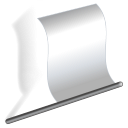
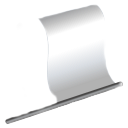
Fixed flags and river flow

diff --git a/riverrush-screen/src/main/nl/tudelft/ti2806/riverrush/screen/PlayingGameScreen.java b/riverrush-screen/src/main/nl/tudelft/ti2806/riverrush/screen/PlayingGameScreen.java
@@ -98,12 +98,12 @@ public class PlayingGameScreen implements Screen {
     /**
      * Draws a stage on the screen. Each stage occupies the entire height of the screen.
      *
-     * @param toDraw             The stage to draw.
+     * @param toDraw The stage to draw.
      * @param positionPercentage The position of the stage from the left. Between 0 and 1.
-     * @param heigthPercentage   The width of the stage between 0 and 1. (1 = 100%).
+     * @param heigthPercentage The width of the stage between 0 and 1. (1 = 100%).
      */
     private void drawStage(final Stage toDraw, final double positionPercentage,
-                           final double heigthPercentage) {
+            final double heigthPercentage) {
 
         int yPos = (int) (Gdx.graphics.getHeight() * positionPercentage);
         int height = (int) (Gdx.graphics.getHeight() * heigthPercentage);
@@ -141,7 +141,7 @@ public class PlayingGameScreen implements Screen {
     /**
      * adds an obstacle on the..
      *
-     * @param isRight  - left or right side
+     * @param isRight - left or right side
      * @param graphic - where the obstacle is the graphic
      */
     public void addObstacle(final boolean isRight, final CannonBallGraphic graphic) {
@@ -155,7 +155,7 @@ public class PlayingGameScreen implements Screen {
     /**
      * adds an rock on the..
      *
-     * @param isRight  - left or right side
+     * @param isRight - left or right side
      * @param graphic - where the rock is the graphic
      */
     public void addRock(final boolean isRight, final RockGraphic graphic) {
@@ -173,10 +173,10 @@ public class PlayingGameScreen implements Screen {
      */
     public void addBoat(final Team team) {
         BoatGroup boat = new BoatGroup(Gdx.graphics.getWidth() * 0.02f,
-            (Gdx.graphics.getHeight() / 2), team.getId());
+                (Gdx.graphics.getHeight() / 2), team.getId());
         boat.init();
 
-        if (team.getId() % 2 == 0) { // TODO: Temporary hard coding
+        if (team.getId() % 2 == 0) {
             this.riverRight.addActor(boat);
         } else {
             this.riverLeft.addActor(boat);
@@ -187,14 +187,17 @@ public class PlayingGameScreen implements Screen {
     /**
      * Update the progress.
      *
-     * @param teamID   The team id
+     * @param teamID The team id
      * @param progress The progress
-     * @param speed    the speed
+     * @param speed the speed
      */
     public void updateProgress(final int teamID, final double progress, final double speed) {
-        // TODO Change river speed
-        this.riverLeft.getRiver().updateFlow(speed);
-        this.riverRight.getRiver().updateFlow(speed);
+        if (teamID % 2 == 0) {
+            this.riverRight.getRiver().updateFlow(speed);
+        } else {
+            this.riverLeft.getRiver().updateFlow(speed);
+        }
+
         this.betweenRivers.updateProgress(teamID, progress);
     }
 }

diff --git a/riverrush-screen/src/main/nl/tudelft/ti2806/riverrush/graphics/entity/DirectionFlag.java b/riverrush-screen/src/main/nl/tudelft/ti2806/riverrush/graphics/entity/DirectionFlag.java
@@ -8,8 +8,8 @@ import com.google.inject.Inject;
 import nl.tudelft.ti2806.riverrush.graphics.Assets;
 
 public class DirectionFlag extends Actor {
-    private static final float FLAG_WIDTH = 32;
-    private static final float FLAG_HEIGHT = 64;
+    private static final float FLAG_WIDTH = 24;
+    private static final float FLAG_HEIGHT = 48;
 
     /**
      * Creates a monkey object that represents player characters.
